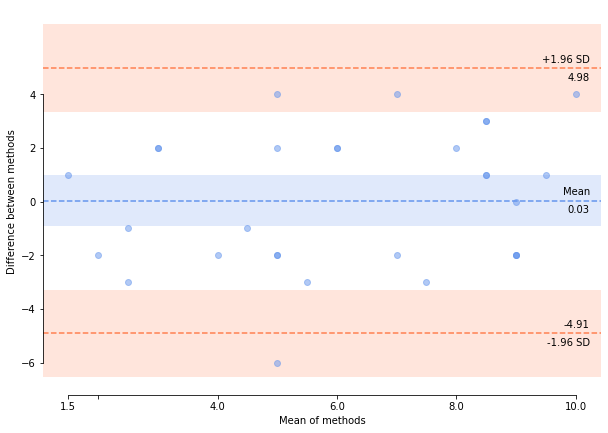
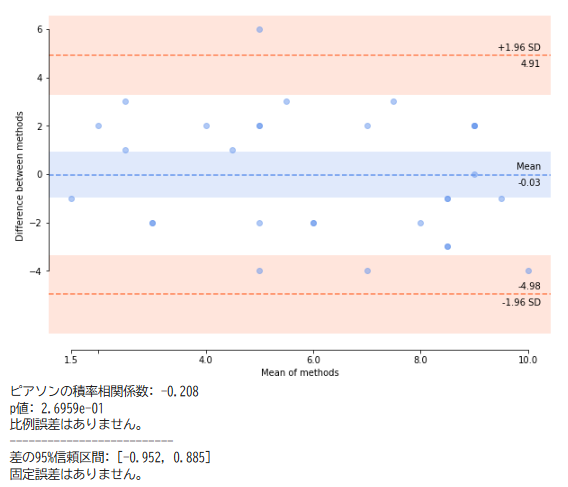
something change

diff --git a/README.md b/README.md
@@ -1,0 +1,72 @@
+# Bland-Altmanプロットと系統誤差
+
+ここでは、PythonのpyCompareライブラリを使用して、Bland-Altmanプロットのグラフ作成と系統誤差（比例誤差と固定誤差）を算出するコードを作成しました。以下に、実際に作成されるグラフやその作成手順を記載していますので、良かったら使ってください。
+
+## 出来上がるグラフ
+
+例えばこのようなグラフを作ることができます。
+
+- ↓サンプルグラフ⓵（系統誤差なし）
+
+![サンプルグラフ](https://github.com/PT-Araisan/BlandAltman-SystematicError/blob/main/assets/demo1.png)
+
+- ↓サンプルグラフ⓶（系統誤差あり）
+
+![サンプルグラフ](https://github.com/PT-Araisan/BlandAltman-SystematicError/blob/main/assets/demo2.png)
+
+
+## 使い方手順
+
+1. **データの準備**: グラフで使用するCSVファイルを用意してください。CSVファイルは、エクセルで作成した表データの保存時にCSV形式を選ぶだけでも可能です。
+行や列ついては、以下のファイルの形式に沿って入力してください（日本語がここでは文字化けしてますがちゃんと使えます）。
+
+- [サンプルグラフ⓵のCSVファイル](https://github.com/PT-Araisan/BlandAltman-SystematicError/blob/main/detaset/deta.csv)
+
+- [サンプルグラフ⓶のCSVファイル](https://github.com/PT-Araisan/BlandAltman-SystematicError/blob/main/detaset/deta2.csv)
+
+
+サンプルグラフのCSVファイルは赤丸の場所からダウンロードできます。
+
+![画像１](https://github.com/PT-Araisan/scd-abab-graph/blob/main/assets/demo1.png)
+
+
+
+- 次に、後で使うので、↓こちらのファイルを押してから
+- [Pythonコードのファイル](https://github.com/PT-Araisan/scd-abab-graph/blob/main/main.ipynb)
+
+- この赤丸の場所を押してmain.ipynbというファイルをダウンロードしておいてください。
+![画像３](https://github.com/PT-Araisan/scd-abab-graph/blob/main/assets/demo2.png)
+
+2. **Google colaboratoryの利用**: 次にこちらのツールを使います。今回の作業は無料で可能。
+
+- [Google colabのサイトへ行きます）](https://colab.research.google.com/?hl=ja)
+Googleアカウントが必要です。
+
+- そして↓アップロードを押す。
+![画像４](https://github.com/PT-Araisan/scd-mltbs-graph/blob/main/assets/demo2.png)
+もしくはファイルのタブから『ノートブックをアップロード』を押す。
+
+- さっきダウンロードしたmain.ipynbをアップロードしてください。
+
+すると、↓このような画面になります。そこで
+
+- ⓵を押すと⓶が出てきます。少し時間がかかることがあります。５秒くらい。
+
+- ⓶を押して、グラフを作りたいCSVファイルをアップロードしてください。
+
+![画像４](https://github.com/PT-Araisan/scd-abab-graph/blob/main/assets/demo4.png)
+
+
+- 最後に、↓の画像の'hoge.csv'のところを、自分がアップロードしたファイルの名前に変更して、上の赤丸の△ボタンを押します。Ctrl + Enterでもいいです。
+![画像５](https://github.com/PT-Araisan/scd-abab-graph/blob/main/assets/demo3.png)
+
+3. **グラフが表示されたら、右クリックで画像を保存してください**
+
+
+## 補足事項
+
+- 反転法の検定や効果量の計算は、[『Rではじめるシングルケースデザイン』（藤巻 峻・山田 剛史　著）](https://ratik.org/9955/907438227/)を参考にすることをお勧めします。そちらでは解析パッケージをダウンロードすることができ、RStudioを活用して簡単にランダマイゼーション検定やTau-Uなども算出できます。
+
+## お問い合わせ
+
+何か質問や要望があれば、[Twitter の DM](https://x.com/Pt96442837Pt) からお気軽にお知らせください。
